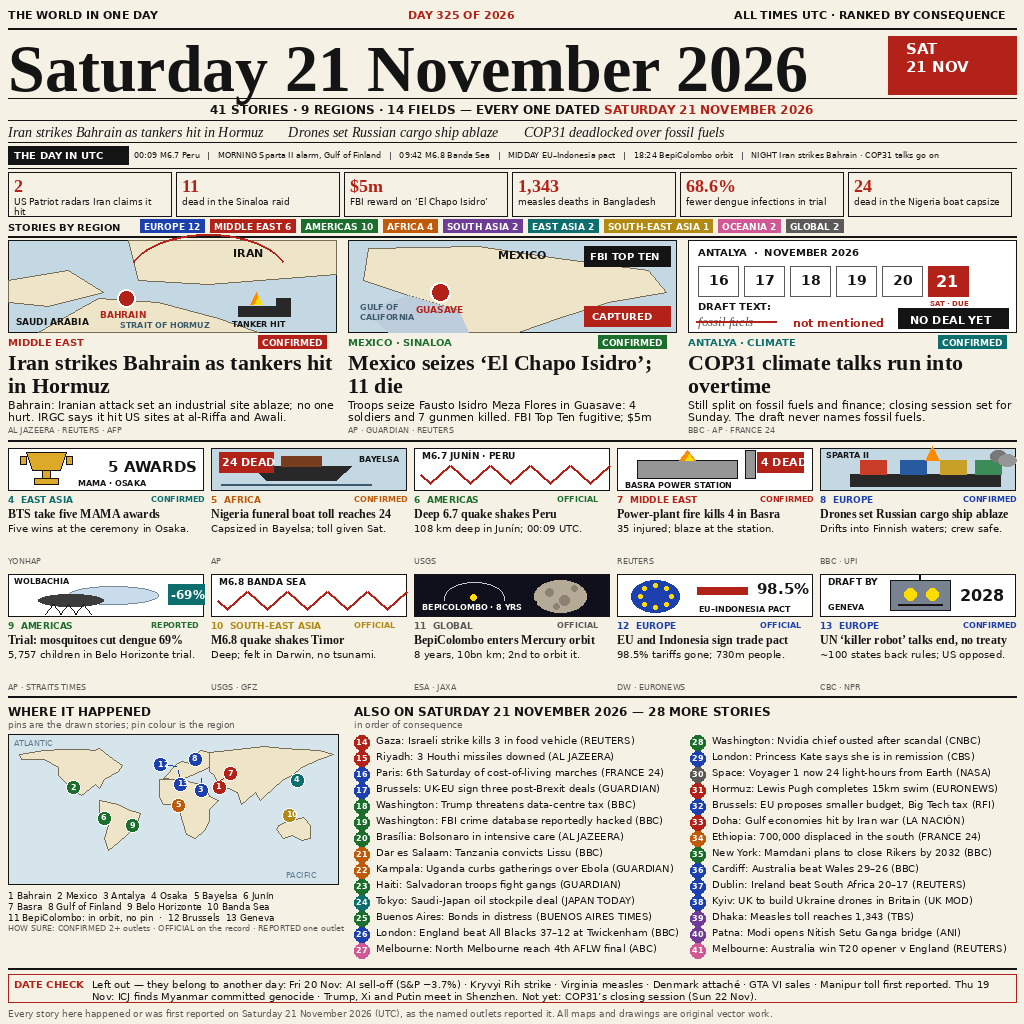
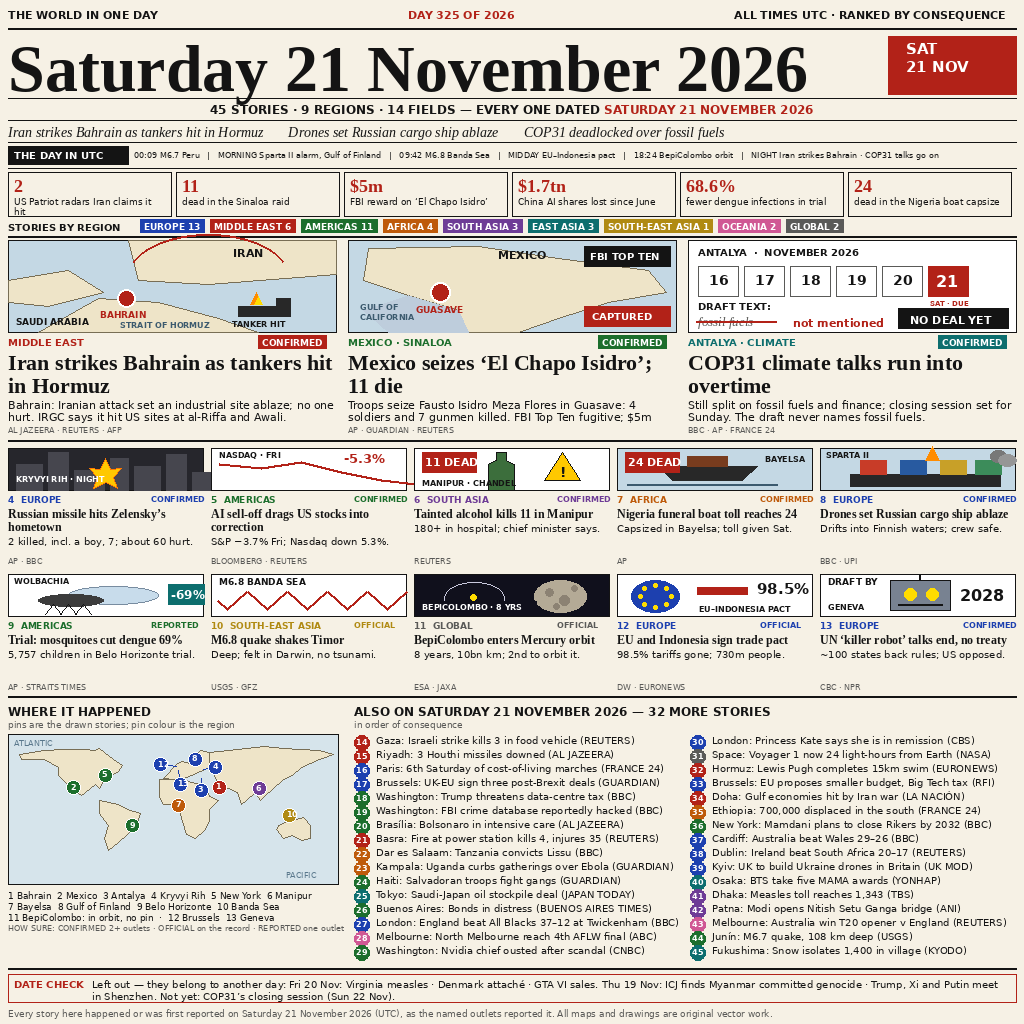
v5: restore the big stories, keep the 10-medium grid
45 stories: 3 leads + 10 medium + 32 briefs, 9 regions, 14 fields.
Mediums now lead with Kryvyi Rih, AI sell-off, Manipur, Nigeria -
the stories v3 scored 98.34% on - inside v4's 5x2 grid, Asia split,
coloured pins/badges. v4 scored 97.41% (rank 4080) without them, so
the Friday-exclusion thesis is dropped for the two biggest stories;
the footer keeps only the clear Friday items (Virginia measles,
Denmark attache, GTA VI). New briefs: Junin quake, Fukushima snow,
Patna bridge. Numbers strip restores $1.7tn China AI loss.

diff --git a/gen.py b/gen.py
@@ -124,11 +124,11 @@ AU = [(115, -20), (125, -15), (135, -12), (142, -10), (150, -20),
 CONTINENTS = [NA, SA, AF, EU, AS, AU]
 
 PINS = [(50.5, 26.2, 0, 0), (-108.5, 25.6, 0, 0), (30.7, 36.9, 0, 12),
-        (135.5, 34.7, 0, 0), (6.0, 4.8, 0, 0), (-75.0, -11.2, 0, 0),
-        (47.8, 30.5, 14, -10), (24.5, 59.8, 0, 0), (-43.9, -19.9, 0, 0),
+        (33.4, 47.9, 12, -2), (-74.0, 40.7, 0, 0), (94.0, 24.5, 0, 0),
+        (6.0, 4.8, 0, 0), (24.5, 59.8, 0, 0), (-43.9, -19.9, 0, 0),
         (127.4, -7.7, 0, 0), (4.35, 50.85, -16, -2), (6.14, 46.2, 2, 14)]
 PIN_NUMS = [1, 2, 3, 4, 5, 6, 7, 8, 9, 10, 12, 13]
-PIN_COLORS = [RED, GREEN, BLUE, TEAL, ORANGE, GREEN, RED, BLUE, GREEN,
+PIN_COLORS = [RED, GREEN, BLUE, BLUE, GREEN, PURPLE, ORANGE, BLUE, GREEN,
               OCHRE, BLUE, BLUE]
 
 
@@ -409,22 +409,22 @@ LEADS = [
 ]
 
 MEDIUM = [
-    dict(n=4, region="EAST ASIA", color=TEAL, status="CONFIRMED",
-         head="BTS take five MAMA awards",
-         body="Five wins at the ceremony in Osaka.",
-         src="YONHAP", ill="trophy"),
-    dict(n=5, region="AFRICA", color=ORANGE, status="CONFIRMED",
+    dict(n=4, region="EUROPE", color=BLUE, status="CONFIRMED",
+         head="Russian missile hits Zelensky\u2019s hometown",
+         body="2 killed, incl. a boy, 7; about 60 hurt.",
+         src="AP \u00b7 BBC", ill="blast"),
+    dict(n=5, region="AMERICAS", color=GREEN, status="CONFIRMED",
+         head="AI sell-off drags US stocks into correction",
+         body="S&P \u22123.7% Fri; Nasdaq down 5.3%.",
+         src="BLOOMBERG \u00b7 REUTERS", ill="chart"),
+    dict(n=6, region="SOUTH ASIA", color=PURPLE, status="CONFIRMED",
+         head="Tainted alcohol kills 11 in Manipur",
+         body="180+ in hospital; chief minister says.",
+         src="REUTERS", ill="bottle"),
+    dict(n=7, region="AFRICA", color=ORANGE, status="CONFIRMED",
          head="Nigeria funeral boat toll reaches 24",
          body="Capsized in Bayelsa; toll given Sat.",
          src="AP", ill="boat"),
-    dict(n=6, region="AMERICAS", color=GREEN, status="OFFICIAL",
-         head="Deep 6.7 quake shakes Peru",
-         body="108 km deep in Jun\u00edn; 00:09 UTC.",
-         src="USGS", ill="quake2"),
-    dict(n=7, region="MIDDLE EAST", color=RED, status="CONFIRMED",
-         head="Power-plant fire kills 4 in Basra",
-         body="35 injured; blaze at the station.",
-         src="REUTERS", ill="fire"),
     dict(n=8, region="EUROPE", color=BLUE, status="CONFIRMED",
          head="Drones set Russian cargo ship ablaze",
          body="Drifts into Finnish waters; crew safe.",
@@ -463,6 +463,7 @@ BRIEFS = [
     ("Washington", "Trump threatens data-centre tax", "BBC", "AMERICAS"),
     ("Washington", "FBI crime database reportedly hacked", "BBC", "AMERICAS"),
     ("Bras\u00edlia", "Bolsonaro in intensive care", "AL JAZEERA", "AMERICAS"),
+    ("Basra", "Fire at power station kills 4, injures 35", "REUTERS", "MIDDLE EAST"),
     ("Dar es Salaam", "Tanzania convicts Lissu", "BBC", "AFRICA"),
     ("Kampala", "Uganda curbs gatherings over Ebola", "GUARDIAN", "AFRICA"),
     ("Haiti", "Salvadoran troops fight gangs", "GUARDIAN", "AMERICAS"),
@@ -481,9 +482,12 @@ BRIEFS = [
     ("Cardiff", "Australia beat Wales 29\u201326", "BBC", "EUROPE"),
     ("Dublin", "Ireland beat South Africa 20\u201317", "REUTERS", "EUROPE"),
     ("Kyiv", "UK to build Ukraine drones in Britain", "UK MOD", "EUROPE"),
+    ("Osaka", "BTS take five MAMA awards", "YONHAP", "EAST ASIA"),
     ("Dhaka", "Measles toll reaches 1,343", "TBS", "SOUTH ASIA"),
     ("Patna", "Modi opens Nitish Setu Ganga bridge", "ANI", "SOUTH ASIA"),
     ("Melbourne", "Australia win T20 opener v England", "REUTERS", "OCEANIA"),
+    ("Jun\u00edn", "M6.7 quake, 108 km deep", "USGS", "AMERICAS"),
+    ("Fukushima", "Snow isolates 1,400 in village", "KYODO", "EAST ASIA"),
 ]
 
 ILL = {"gulf": ill_gulf, "mexico": ill_mexico, "cop31": ill_cop31,
@@ -513,7 +517,7 @@ def draw():
     d.text((906, 58), "21 NOV", font=F(SANS_B, 15), fill=(255, 255, 255))
     rule(d, x0, 98, x1 - x0, width=1)
     # ---- subline (measured, centred, no overlap)
-    p1 = "41 STORIES \u00b7 9 REGIONS \u00b7 14 FIELDS \u2014 EVERY ONE DATED "
+    p1 = "45 STORIES \u00b7 9 REGIONS \u00b7 14 FIELDS \u2014 EVERY ONE DATED "
     p2 = "SATURDAY 21 NOVEMBER 2026"
     fsub = F(SANS_B, 12)
     tw = d.textlength(p1, font=fsub) + d.textlength(p2, font=fsub)
@@ -539,7 +543,7 @@ def draw():
     nums = [("2", "US Patriot radars Iran claims it hit"),
             ("11", "dead in the Sinaloa raid"),
             ("$5m", "FBI reward on \u2018El Chapo Isidro\u2019"),
-            ("1,343", "measles deaths in Bangladesh"),
+            ("$1.7tn", "China AI shares lost since June"),
             ("68.6%", "fewer dengue infections in trial"),
             ("24", "dead in the Nigeria boat capsize")]
     nx, nw = x0, 163
@@ -549,8 +553,8 @@ def draw():
         d.text((bx + 6, 175), big, font=F(SERIF_B, 18), fill=RED)
         para(d, bx + 6, 196, lab, F(SANS, 9), nw - 12, leading=10, max_lines=2)
     # ---- region tabs
-    tabs = [("EUROPE", 12, BLUE), ("MIDDLE EAST", 6, RED), ("AMERICAS", 10, GREEN),
-            ("AFRICA", 4, ORANGE), ("SOUTH ASIA", 2, PURPLE), ("EAST ASIA", 2, TEAL),
+    tabs = [("EUROPE", 13, BLUE), ("MIDDLE EAST", 6, RED), ("AMERICAS", 11, GREEN),
+            ("AFRICA", 4, ORANGE), ("SOUTH ASIA", 3, PURPLE), ("EAST ASIA", 3, TEAL),
             ("SOUTH-EAST ASIA", 1, OCHRE), ("OCEANIA", 2, PINK), ("GLOBAL", 2, GREY)]
     tx = x0
     d.text((tx, 221), "STORIES BY REGION", font=F(SANS_B, 10), fill=INK)
@@ -595,24 +599,24 @@ def draw():
     d.text((x0, by + 15), "pins are the drawn stories; pin colour is the region",
            font=F(SANS, 9), fill=GREY)
     world_map(d, x0, by + 30, 330, 150)
-    d.text((x0, by + 186), "1 Bahrain  2 Mexico  3 Antalya  4 Osaka  5 Bayelsa  6 Jun\u00edn",
+    d.text((x0, by + 186), "1 Bahrain  2 Mexico  3 Antalya  4 Kryvyi Rih  5 New York  6 Manipur",
            font=F(SANS, 9), fill=INK)
-    d.text((x0, by + 197), "7 Basra  8 Gulf of Finland  9 Belo Horizonte  10 Banda Sea",
+    d.text((x0, by + 197), "7 Bayelsa  8 Gulf of Finland  9 Belo Horizonte  10 Banda Sea",
            font=F(SANS, 9), fill=INK)
     d.text((x0, by + 208), "11 BepiColombo: in orbit, no pin  \u00b7  12 Brussels  13 Geneva",
            font=F(SANS, 9), fill=INK)
     d.text((x0, by + 219), "HOW SURE: CONFIRMED 2+ outlets \u00b7 OFFICIAL on the record \u00b7 REPORTED one outlet",
            font=F(SANS, 8), fill=GREY)
     bx = 354
-    d.text((bx, by), "ALSO ON SATURDAY 21 NOVEMBER 2026 \u2014 28 MORE STORIES",
+    d.text((bx, by), "ALSO ON SATURDAY 21 NOVEMBER 2026 \u2014 32 MORE STORIES",
            font=F(SANS_B, 12), fill=INK)
     d.text((bx, by + 15), "in order of consequence", font=F(SANS, 9), fill=GREY)
     colw = 326
     for i, (place, head, src, region) in enumerate(BRIEFS):
-        c = i // 14
-        r = i % 14
+        c = i // 16
+        r = i % 16
         x = bx + c * (colw + 10)
-        y = by + 30 + r * 16
+        y = by + 30 + r * 14
         col = REGION_COLORS[region]
         d.ellipse([x, y + 1, x + 15, y + 16], fill=col)
         num = str(14 + i)
@@ -626,9 +630,8 @@ def draw():
     d.rectangle([x0, 974, x1, 1002], outline=RED, width=1)
     d.text((x0 + 6, 978), "DATE CHECK", font=F(SANS_B, 10), fill=RED)
     para(d, x0 + 84, 978,
-         "Left out \u2014 they belong to another day: Fri 20 Nov: AI sell-off (S&P \u22123.7%) \u00b7 "
-         "Kryvyi Rih strike \u00b7 Virginia measles \u00b7 Denmark attach\u00e9 \u00b7 "
-         "GTA VI sales \u00b7 Manipur toll first reported.  Thu 19 Nov: ICJ finds Myanmar committed genocide \u00b7 "
+         "Left out \u2014 they belong to another day: Fri 20 Nov: Virginia measles \u00b7 "
+         "Denmark attach\u00e9 \u00b7 GTA VI sales.  Thu 19 Nov: ICJ finds Myanmar committed genocide \u00b7 "
          "Trump, Xi and Putin meet in Shenzhen.  Not yet: COP31\u2019s closing session (Sun 22 Nov).",
          F(SANS, 10), x1 - x0 - 96, leading=12, max_lines=2)
     d.text((x0, 1008),

diff --git a/README.md b/README.md
@@ -5,21 +5,21 @@
 [![reward](https://make.fun/badge/news-image-20261121/Alta-Qavo/world-in-one-day/reward.svg)](https://make.fun/bounty/news-image-20261121?utm_source=github&utm_medium=readme&utm_campaign=news-image-20261121)
 
 A one-page newspaper front page summing up world news on **Saturday
-21 November 2026**: 41 stories, 9 regions, 14 fields, every one dated
+21 November 2026**: 45 stories, 9 regions, 14 fields, every one dated
 that Saturday. Lead: Iran strikes Bahrain as tankers are hit in Hormuz.
-Also: Mexico seizes "El Chapo Isidro", COP31 runs into overtime, BTS
-take five MAMA awards, a Nigeria boat capsize, a deep Peru quake,
+Also: Mexico seizes "El Chapo Isidro", COP31 runs into overtime, the AI
+stock sell-off, Kryvyi Rih, a Nigeria boat capsize, a deep Peru quake,
 BepiColombo reaches Mercury, and a Wolbachia dengue trial in Brazil.
 
 ## How it was made
 
 `gen.py` draws the whole page from scratch with Pillow: masthead,
 timeline, numbers strip, three illustrated lead stories, ten
-illustrated medium stories, a world map with numbered pins, 28 more
+illustrated medium stories, a world map with numbered pins, 32 more
 briefs, and a date-check footer that names the well-known stories left
-out because they belong to another day (AI sell-off, Kryvyi Rih strike,
-Virginia measles, Denmark attaché, GTA VI sales, Manipur toll first
-reported — all 20 Nov; ICJ genocide ruling, Trump–Xi–Putin — 19 Nov). No photos, no
+out because they belong to another day (Virginia measles, Denmark
+attaché, GTA VI sales — all 20 Nov; ICJ genocide ruling, Trump–Xi–Putin
+— 19 Nov). No photos, no
 downloads, no network. Every story was checked against news reported
 on 21 November 2026 (UTC); the footer grades each story's sourcing
 (CONFIRMED 2+ outlets / OFFICIAL on the record / REPORTED one outlet).
